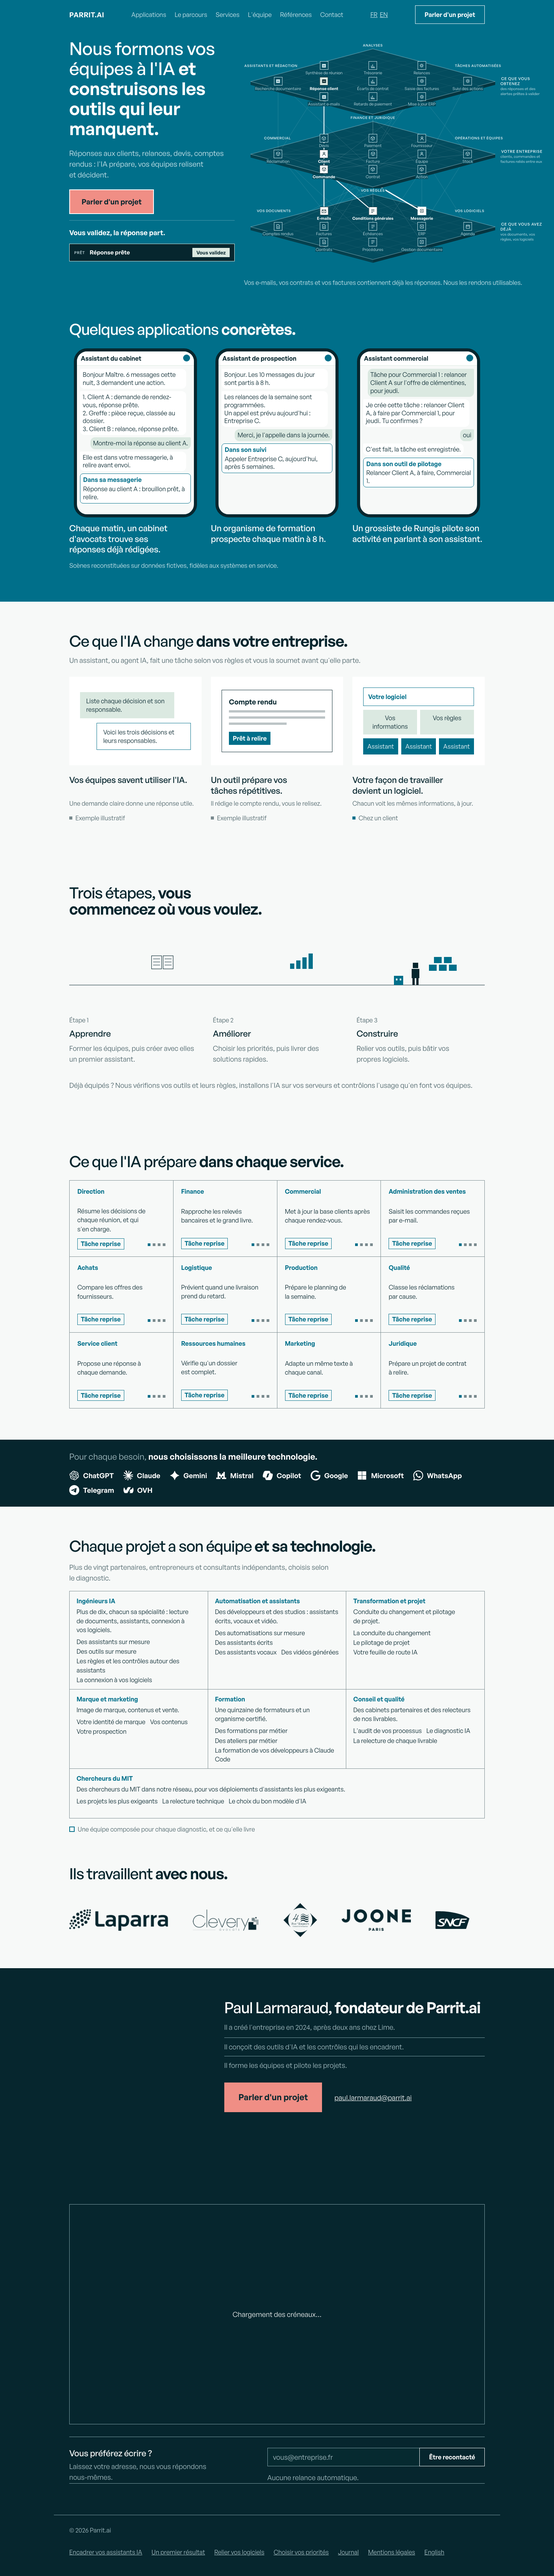
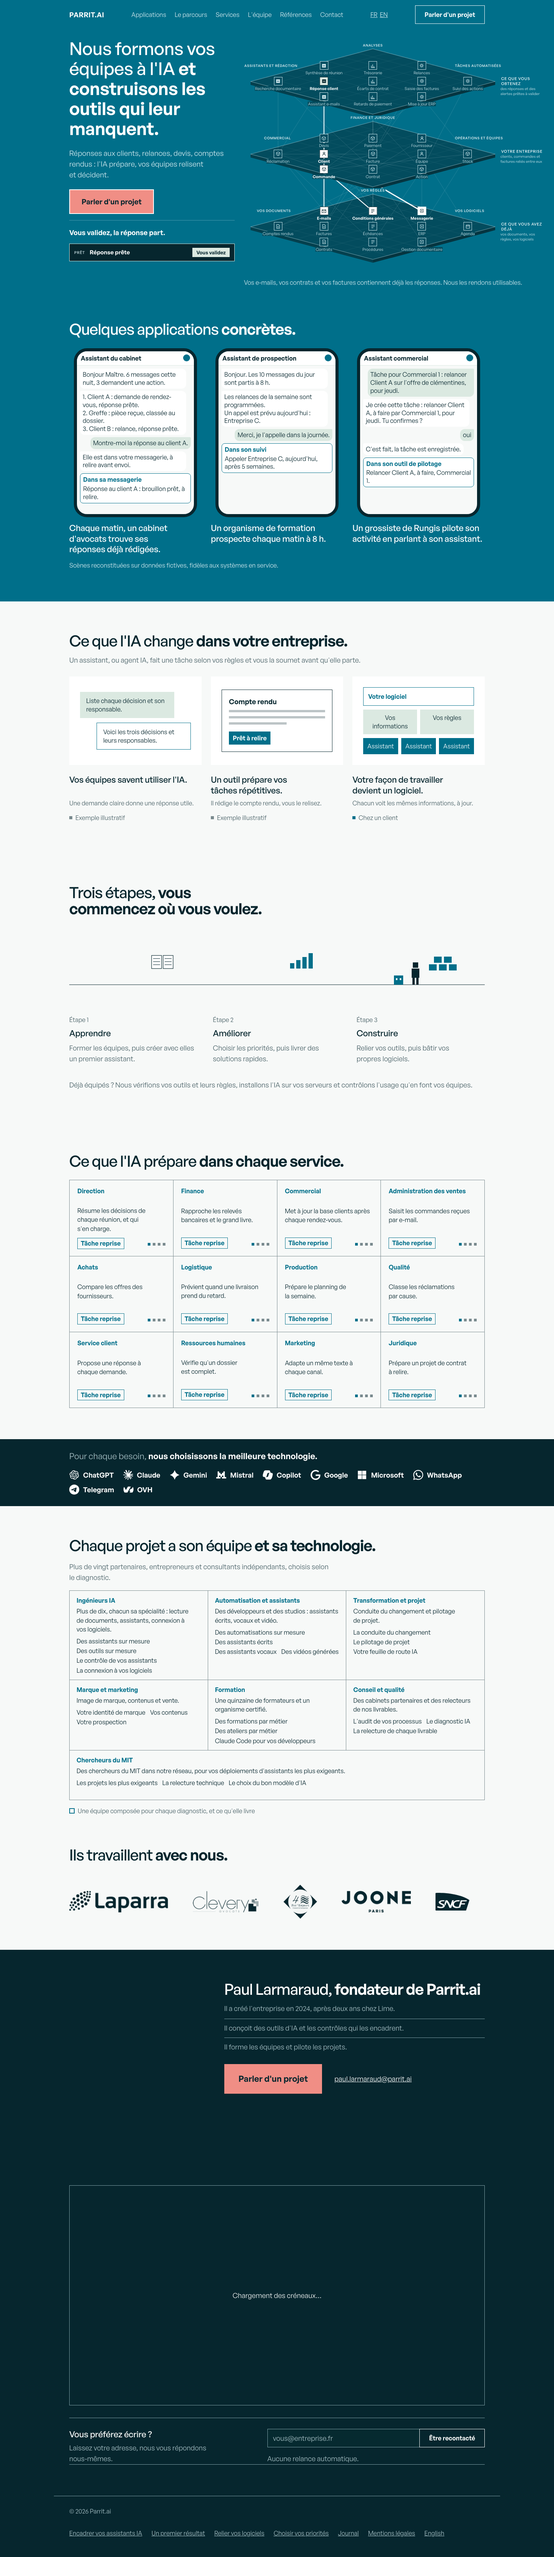
codex: implémente docs/CODEX-SPEC-2026-11-02-langue-metier-et-referencement.md
Via pont headless codex-handoff.sh. Batterie verte.

diff --git a/src/system/components/SinglePage.tsx b/src/system/components/SinglePage.tsx
@@ -105,7 +105,7 @@ export function SinglePage({ locale }: { locale: Locale }) {
 <section id={fr ? "partenaires" : "team"}><RevealOnView className="wrap">
   <h2>{t("Chaque projet a son équipe")}{" "}<b>{t("et sa technologie.")}</b></h2>
   <p className="muted" style={{"marginTop": "20px", "maxWidth": "720px"}}>{t("Plus de vingt partenaires, entrepreneurs et consultants indépendants, choisis selon le diagnostic.")}</p>
-  <ServiceGrid offers={PARTNER_OFFERS.map(offers => offers.map(t))} deliveryLabel={t("Avec eux, nous livrons")} label={fr ? "Partenaires et livrables" : "Partners and deliverables"} items={[[t("Ingénieurs IA"), t("Plus de dix, chacun sa spécialité : lecture de documents, assistants, connexion à vos logiciels.")], [t("Automatisation et assistants"), t("Des développeurs et des studios : assistants écrits, vocaux et vidéo.")], [t("Transformation et projet"), t("Conduite du changement et pilotage de projet.")], [t("Marque et marketing"), t("Image de marque, contenus et vente.")], [t("Formation"), t("Une quinzaine de formateurs et un organisme certifié.")], [t("Conseil et qualité"), t("Des cabinets partenaires et des relecteurs de nos livrables.")], [t("Chercheurs du MIT"), t("Des chercheurs du MIT dans notre réseau, pour vos déploiements d'assistants les plus exigeants.")]]} />
+  <ServiceGrid offers={PARTNER_OFFERS.map(offers => offers.map(t))} deliveryLabel={t("Avec eux, nous livrons")} label={fr ? "Partenaires et livrables" : "Partners and deliverables"} items={[[t("Ingénieurs IA"), t("Plus de dix, chacun sa spécialité : documents, assistants, connexion à vos logiciels.")], [t("Automatisation et assistants"), t("Des développeurs et des studios : assistants écrits, vocaux et vidéo.")], [t("Transformation et projet"), t("Conduite du changement et pilotage de projet.")], [t("Marque et marketing"), t("Image de marque, contenus et vente.")], [t("Formation"), t("Une quinzaine de formateurs et un organisme certifié.")], [t("Conseil et qualité"), t("Des cabinets partenaires et des relecteurs de nos livrables.")], [t("Chercheurs du MIT"), t("Des chercheurs du MIT dans notre réseau, pour vos déploiements d'assistants les plus exigeants.")]]} />
   <p className="teamcap"><i aria-hidden="true"/>{t("Une équipe composée pour chaque diagnostic, et ce qu'elle livre")}</p>
 <ResearchPartner/>
 </RevealOnView></section>

diff --git a/src/system/single-page-copy.ts b/src/system/single-page-copy.ts
@@ -151,7 +151,7 @@ export const SINGLE_PAGE_EN: Readonly<Record<string, string>> = {
   "et sa technologie.": "and its own technology.",
   "Plus de vingt partenaires, entrepreneurs et consultants indépendants, choisis selon le diagnostic.": "More than twenty partners, independent entrepreneurs and consultants, chosen after the diagnosis.",
   "Ingénieurs IA": "AI engineers",
-  "Plus de dix, chacun sa spécialité : lecture de documents, assistants, connexion à vos logiciels.": "More than ten, each with a specialty: reading documents, assistants, connecting to your software.",
+  "Plus de dix, chacun sa spécialité : documents, assistants, connexion à vos logiciels.": "More than ten, each with a specialty: documents, assistants, connecting to your software.",
   "Automatisation et assistants": "Automation and assistants",
   "Des développeurs et des studios : assistants écrits, vocaux et vidéo.": "Developers and studios: written, voice and video assistants.",
   "Transformation et projet": "Transformation",

diff --git a/docs/CODEX-SPEC-2026-11-02-langue-metier-et-referencement.md b/docs/CODEX-SPEC-2026-11-02-langue-metier-et-referencement.md
@@ -4,9 +4,13 @@ Niveau de risque : moyen
 
 Statut : validée par Paul le 03/11/2026 (« Go sur la spec »).
 
-## À faire maintenant : correction 1, et rien d'autre
+## À faire maintenant : fin de la correction 1, et rien d'autre
 
-Le reste de cette spec est déjà implémenté sur cette branche : ne pas le refaire. Claude a joué la batterie en navigateur sur l'hôte : 401 tests passent, 9 échouent. Modifier seulement `src/system/single-page-copy.ts`, `src/system/single-page.css`, `tests/stabilite.spec.ts`, et ajouter le résultat au rapport `docs/REPORT-2026-11-03-langue-metier-et-referencement.md`.
+Tout le reste de cette spec est déjà implémenté sur cette branche, y compris les points 2 et 3 ci-dessous et deux des trois textes du point 1 : ne pas y toucher. Il manque un seul texte : « Plus de dix, chacun sa spécialité : lecture de documents, assistants, connexion à vos logiciels. » devient « Plus de dix, chacun sa spécialité : documents, assistants, connexion à vos logiciels. » Il figure dans `src/system/components/SinglePage.tsx` et `src/system/single-page-copy.ts`, que la consigne précédente excluait à tort pour le premier. Modifier ces deux fichiers et ajouter une ligne au rapport `docs/REPORT-2026-11-03-langue-metier-et-referencement.md`. Après ce changement, le bloc passera de 723 à environ 700 px à 1280×720 ; Claude le vérifie sur l'hôte.
+
+## Correction 1, pour mémoire
+
+Claude a joué la batterie en navigateur sur l'hôte : 401 tests passaient, 9 échouaient.
 
 1. **Le bloc « Chaque projet a son équipe et sa technologie » déborde à 1280×720 en français** : 770 px pour 720 (`un bloc = un écran fr 1280×720`), ce que le banc d'essai 5 interdit. Trois textes français remplacent ceux de la spec, là où ils apparaissent ; l'anglais suit le sens :
    - « Plus de dix, chacun sa spécialité : lecture de documents, assistants, connexion à vos logiciels. » devient « Plus de dix, chacun sa spécialité : documents, assistants, connexion à vos logiciels. »

diff --git a/docs/REPORT-2026-11-03-langue-metier-et-referencement.md b/docs/REPORT-2026-11-03-langue-metier-et-referencement.md
@@ -207,3 +207,5 @@ WRITE_SCOPE : sources, générateur/artefact llms, tests et documentation décri
 REVERSIBLE : oui ; ROLLBACK : annuler le diff des fichiers listés en préservant la spec.
 BACKUP : HEAD ci-dessus et copie isolée de baseline ; EXPECTED_ROWS : 0.
 PRODUCTION_PROOF : non acquise, aucun déploiement autorisé ni effectué.
+
+Fin de la correction 1 (03/11/2026, baseline `b7e08f7c18f9e2225b2d886b83df07fbacbca7a5`) : le blocage de périmètre ci-dessus est levé par la spec amendée ; « lecture de documents » devient « documents » dans `src/system/components/SinglePage.tsx` et dans la clé de `src/system/single-page-copy.ts`, avec « reading documents » devenu « documents » en anglais. Aucun autre texte, style, espacement ou seuil modifié ; aucun test ajouté, les contrôles existants couvrant déjà traductions, SSR et géométrie. Résultats : 142/142 tests Node avant et après, lint, build Webpack, TypeScript, marque/claims, 19/19 tests Brand OS et `git diff --check` réussis. Batterie navigateur tentée : serveur refusé (`listen EPERM`), Chromium arrêté avant navigation (`MachPortRendezvousServer`, SIGTRAP), 1 échec de lancement et 409 tests non exécutés ; hauteur à 1280×720 et stabilité à vérifier par Claude sur l'hôte, aucune mesure réelle revendiquée. Modifications locales réversibles limitées aux deux sources et à cette ligne ; sauvegarde dans `/private/tmp/parrit-final-copy-backup`, zéro donnée métier ; spec et deux captures préexistantes préservées et vérifiées par SHA256. Aucun commit, push ni déploiement.
